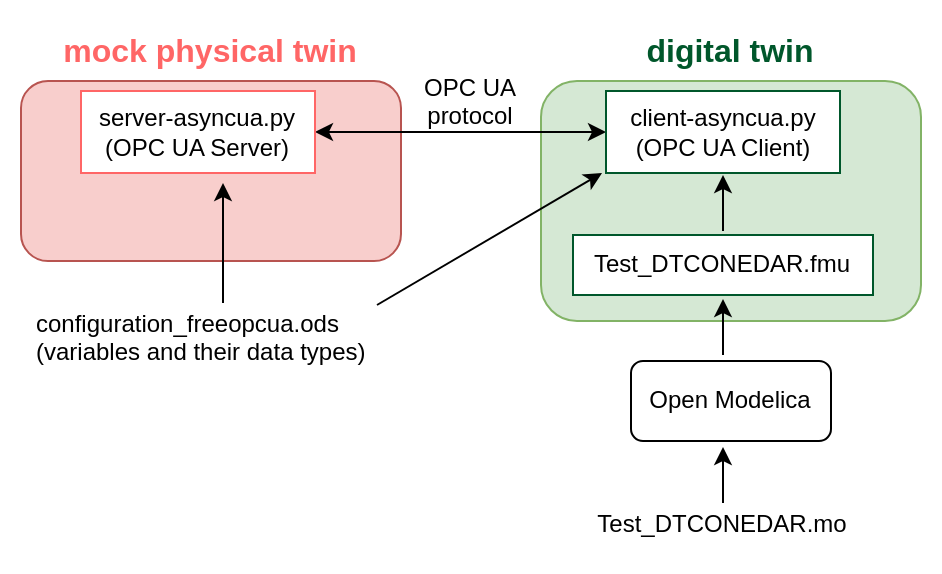
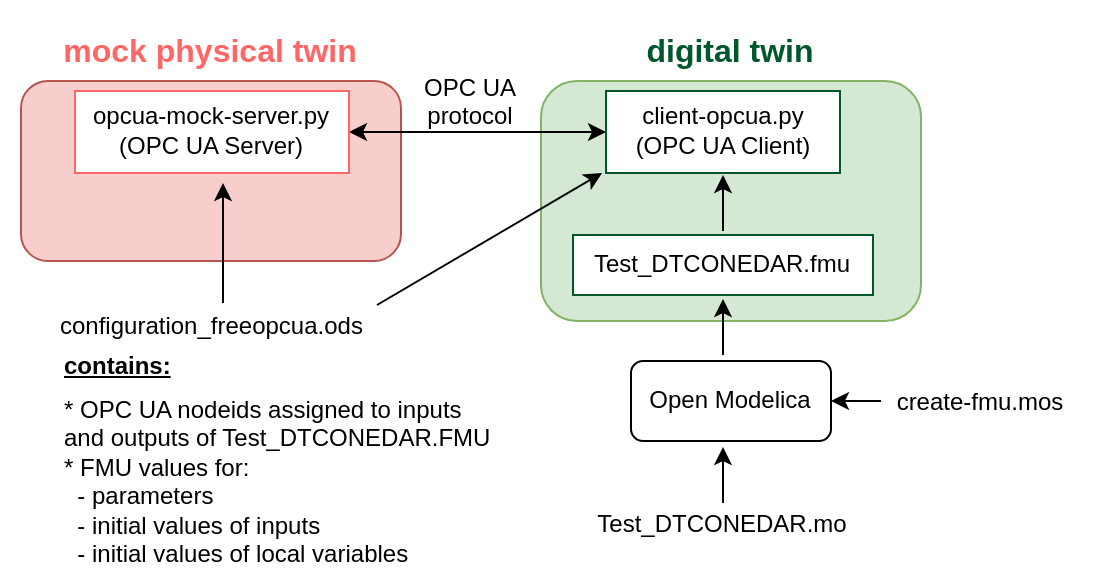
Updates the README and renames files

diff --git a/digital_twins/opc-ua-waterplant/README.md b/digital_twins/opc-ua-waterplant/README.md
@@ -66,8 +66,8 @@ the FMI standard, to be integrated in the main script execution (_main.py_).
 | Model | Test_DTCONEDAR.mo | private | No |
 | Data | configuration_freopcua.ods  | private   | No  |
 |      | model_description.csv (generated by client-asyncua.py) | private | No |
-|      | **Mock OPC UA Server**: server-asyncua.py | private | No |
-| Tool | **OPC UA Client**: client-asyncua.py | private | No |
+|      | **Mock OPC UA Server**: opcua-mock-server.py | private | No |
+| Tool | **OPC UA Client**: client-opcua.py | private | No |
 |      | **FMU builder**: create-fmu.mos | private | No |
 
 In this example, a dummy model representation of the plant
@@ -79,11 +79,21 @@ previously generated, however, to ensure that we are using the right binaries
 it is recommended to install Open Modelica Compiler and run `script.mos`
 to build the FMU from the Modelica file `Test_DTCONEDAR.mo`.
 
-The client python script (_client.py_) does the following actions:
+The FMU model description file (`modelDescription.xml` file inside
+`Test_DTCONEDAR.fmu`) has the information of the value references
+configuration_freeopcua.ods has the information of the OPC-UA node IDs
+And both have in common the variable name
 
-- Read values from PLC using a client OPC.
-- Read the spreadsheet to fix initial values, parameters and some inputs
+The client python script (`client-opcua.py`) does the following actions:
+
+- Reads the variable names and the variable value references from
+  the model description file of the Test_DTCONEDAR.FMU.
+- Reads _configuration_freeopcua.ods_ to obtain opcua node IDs and assigns
+  those node IDs to the variables read from the FMU
+- Read _configuration_freeopcua.ods_  to fix initial values, parameters and
+  some inputs
   (those inputs that are not being measured, a reasonable value is assumed).
+- Read values from PLC using a client OPC.
 - Execute the algorithm with the FMPy library using the .fmu created from
   the compartment model (based on CFD)
 
